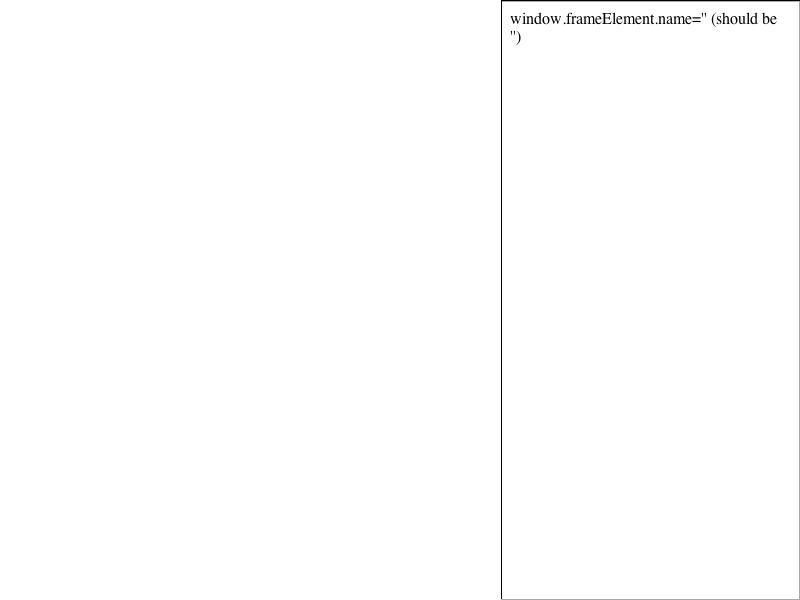
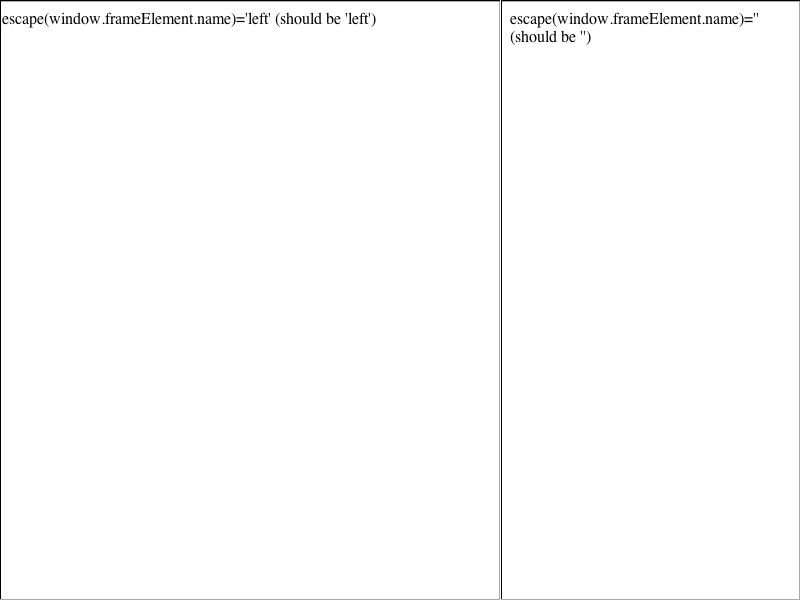
Reviewed by Darin.
Corrected a test case for http://bugzilla.opendarwin.org/show_bug.cgi?id=6385.

        * fast/frames/frame-element-name.html: Fix a reference to the left frame.
        * fast/frames/frame-element-name-expected.txt: Updated results.
        * fast/frames/frame-element-name-expected.png: Updated results.
        * fast/frames/frame-element-name-expected.checksum: Updated results.
        * fast/frames/resources/frame-element-name-left.html: Use escape() on the name.
        * fast/frames/resources/frame-element-name-right.html: Ditto.

Identifier: 10375@main
git-svn-id: https://svn.webkit.org/repository/webkit/trunk@12348 268f45cc-cd09-0410-ab3c-d52691b4dbfc

Changed region(s): [[0.0, 0.0, 0.625, 0.06], [0.625, 0.0, 0.9688, 0.09], [0.0, 0.99, 0.625, 1.0]]

diff --git a/LayoutTests/fast/frames/frame-element-name.html b/LayoutTests/fast/frames/frame-element-name.html
@@ -1,6 +1,6 @@
 <html>
  <frameset border="1" cols="500,*" style='border: solid 1px;'>
-  <frame marginwidth="1" src="frame-element-name-left.html" name='left'>
+  <frame marginwidth="1" src="resources/frame-element-name-left.html" name='left'>
   <frame src="resources/frame-element-name-right.html">
  </frameset>
 </html>

diff --git a/LayoutTests/fast/frames/resources/frame-element-name-left.html b/LayoutTests/fast/frames/resources/frame-element-name-left.html
@@ -5,7 +5,7 @@
 <script>
 try {
 
-	document.write("window.frameElement.name='" + window.frameElement.name + "' (should be 'left')");
+	document.write("escape(window.frameElement.name)='" + escape(window.frameElement.name) + "' (should be 'left')");
 
 } catch (ex) {
 	document.write('Exception: ' + ex.description);

diff --git a/LayoutTests/fast/frames/resources/frame-element-name-right.html b/LayoutTests/fast/frames/resources/frame-element-name-right.html
@@ -5,7 +5,7 @@
 <script>
 try {
 
-	document.write("window.frameElement.name='" + window.frameElement.name + "' (should be '')");
+	document.write("escape(window.frameElement.name)='" + escape(window.frameElement.name) + "' (should be '')");
 
 } catch (ex) {
 	document.write('Exception: ' + ex.description);
